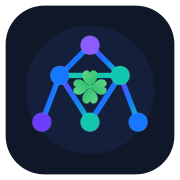
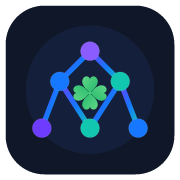
fix(brand): add transparent UI lockups and optically center symbol
Manual visual review rejected the header logo: lotoatlas-logo-horizontal-
reversed.svg and lotoatlas-symbol-on-dark.svg both baked in a full-canvas
`<rect fill="#101729"/>`, producing a visible dark rectangle around the
mark instead of it sitting on the surrounding surface. Add two new,
transparent, tagline-free UI variants (lotoatlas-logo-ui-reversed.svg,
lotoatlas-symbol-ui-on-dark.svg) tightly cropped to their actual rendered
content (measured via headless-browser getBBox), for in-app header/nav use
only — the original institutional assets (with background/tagline) are
kept unchanged for Brandbook/presentation use.

Also corrects an optical-centering defect: the node network's true visible
bounds (y=19..292, including the 27px node radius) sat 9.5px above the
standalone symbol canvas's own center, and 34px above the app-icon's
backdrop-circle center — both produced a visibly larger empty margin below
the mark than above, most noticeable in the WhatsApp/link-preview icon.
Fixed by adjusting only the framing (symbol viewBox y-offset; app-icon
translateY 165->199) — no node or clover coordinate was redrawn. All
app-icon PNGs (Brand Kit source and public/brand) are regenerated from the
corrected SVG via resvg-cli.

Adds a dedicated 1200x630 Open Graph image (corrected symbol, wordmark,
tagline, safe margins) and og:image/twitter:image metadata, so the square
app icon is no longer the only candidate social-preview asset.

diff --git a/index.html b/index.html
@@ -15,6 +15,19 @@
     <link rel="shortcut icon" href="/brand/lotoatlas-favicon.ico" />
     <link rel="apple-touch-icon" sizes="180x180" href="/brand/lotoatlas-app-icon-180.png" />
     <title>LotoAtlas — carteiras e estratégias auditáveis</title>
+    <meta property="og:type" content="website" />
+    <meta property="og:site_name" content="LotoAtlas" />
+    <meta property="og:title" content="LotoAtlas — carteiras e estratégias auditáveis" />
+    <meta
+      property="og:description"
+      content="Organize, analise e confira carteiras de Lotofácil e Mega-Sena com estratégias matemáticas reproduzíveis e auditáveis. Não é previsão de sorteios."
+    />
+    <meta property="og:image" content="https://loterias-bkr.pages.dev/social/lotoatlas-og-image.png" />
+    <meta property="og:image:width" content="1200" />
+    <meta property="og:image:height" content="630" />
+    <meta name="twitter:card" content="summary_large_image" />
+    <meta name="twitter:title" content="LotoAtlas — carteiras e estratégias auditáveis" />
+    <meta name="twitter:image" content="https://loterias-bkr.pages.dev/social/lotoatlas-og-image.png" />
   </head>
   <body class="bg-brand-bg text-brand-text antialiased">
     <div id="root"></div>

diff --git a/docs/global/LotoAtlas_BrandKit_v0.3/generate_assets.py b/docs/global/LotoAtlas_BrandKit_v0.3/generate_assets.py
@@ -72,9 +72,27 @@ def symbol_svg(bg=None, mono=None, width=400, height=330, padding=0):
     edges=[(0,1),(0,2),(1,2),(1,3),(1,4),(2,4),(2,5)]
     lines=''.join(f'<line x1="{coords[a][0]}" y1="{coords[a][1]}" x2="{coords[b][0]}" y2="{coords[b][1]}" stroke="{stroke}" stroke-width="15" stroke-linecap="round"/>' for a,b in edges)
     circles=''.join(f'<circle cx="{x}" cy="{y}" r="27" fill="{nodes[i]}" stroke="{C["white"] if bg==C["ink"] else C["white"]}" stroke-opacity="0.10" stroke-width="2"/>' for i,(x,y) in enumerate(coords))
-    return f'''<svg xmlns="http://www.w3.org/2000/svg" width="{width}" height="{height}" viewBox="0 0 400 330">
+    # v0.3 optical-centering correction: the node network's true visible
+    # bounds (including the 27px node radius) are y=19..292, whose center
+    # (155.5) sits 9.5px above the 400x330 canvas's own center (165). The
+    # viewBox is shifted up by 9.5 (instead of moving any node/clover
+    # coordinate) so the unchanged geometry renders with symmetric top/bottom
+    # margins (28.5/28.5) — a framing fix, not a redraw.
+    return f'''<svg xmlns="http://www.w3.org/2000/svg" width="{width}" height="{height}" viewBox="0 -9.5 400 330">
     {defs()}{bgrect}
     <g>{lines}{circles}{clover(200,165,0.58,clover_fill)}</g>
+    </svg>'''
+
+def ui_symbol_transparent():
+    """Tightly-cropped, transparent symbol for in-app UI use (header, compact
+    nav). No background rect — meant to sit directly on whatever surface
+    token is behind it, never a baked-in dark rectangle."""
+    body = symbol_svg().split('<g>')[1].split('</g>')[0]
+    # True content bbox including node radius: x=36..364, y=19..292 (already
+    # symmetric in x around 200); pad 15px on all sides for breathing room.
+    return f'''<svg xmlns="http://www.w3.org/2000/svg" width="358" height="303" viewBox="21 4 358 303">
+    {defs()}
+    <g>{body}</g>
     </svg>'''
 
 def primary_horizontal(reversed=False):
@@ -90,6 +108,22 @@ def primary_horizontal(reversed=False):
     <text x="390" y="170" font-family="Inter, Arial, sans-serif" font-size="108" font-weight="800" letter-spacing="-4" fill="{ink}">Loto</text>
     <text x="617" y="170" font-family="Inter, Arial, sans-serif" font-size="108" font-weight="800" letter-spacing="-4" fill="url(#atlasGrad2)">Atlas</text>
     <text x="396" y="232" font-family="Inter, Arial, sans-serif" font-size="25" font-weight="600" letter-spacing="8" fill="{tag}">ORGANIZE. ANALISE. CONFIRA.</text>
+    </svg>'''
+
+def ui_horizontal_transparent():
+    """Transparent, tagline-free horizontal lockup for in-app navigation
+    headers. Same symbol+wordmark geometry/position as primary_horizontal
+    (reversed), just without the baked-in dark rect or the tagline line, and
+    cropped tightly to the actual rendered content (measured via headless
+    browser getBBox: symbol x=48.93..312.51 y=27.27..246.65; "Loto"+"Atlas"
+    text x=390..903.94 y=51..203) with a 20px margin."""
+    return f'''<svg xmlns="http://www.w3.org/2000/svg" width="895" height="260" viewBox="29 7 895 260">
+    {defs()}
+    <g transform="translate(20,12) scale(0.98)">
+      <g transform="scale(0.82)">{symbol_svg().split('<g>')[1].split('</g>')[0]}</g>
+    </g>
+    <text x="390" y="170" font-family="Inter, Arial, sans-serif" font-size="108" font-weight="800" letter-spacing="-4" fill="{C['white']}">Loto</text>
+    <text x="617" y="170" font-family="Inter, Arial, sans-serif" font-size="108" font-weight="800" letter-spacing="-4" fill="url(#atlasGrad2)">Atlas</text>
     </svg>'''
 
 def stacked(reversed=False):
@@ -113,11 +147,16 @@ def wordmark(reversed=False):
     </svg>'''
 
 def app_icon():
+    # v0.3 optical-centering correction: with scale(2.0), the symbol's true
+    # content (post-transform y=203..749, center 476) sat 34px above the
+    # backdrop circle's center (510) — a visibly larger empty margin below
+    # the mark than above. translateY 165 -> 199 (+34) recenters the
+    # unchanged symbol geometry inside the circle (92px margin top/bottom).
     return f'''<svg xmlns="http://www.w3.org/2000/svg" width="1024" height="1024" viewBox="0 0 1024 1024">
     {defs()}
     <rect x="32" y="32" width="960" height="960" rx="220" fill="{C['ink']}"/>
     <circle cx="512" cy="510" r="365" fill="#14203B"/>
-    <g transform="translate(112,165) scale(2.0)">
+    <g transform="translate(112,199) scale(2.0)">
       {symbol_svg().split('<g>')[1].split('</g>')[0]}
     </g>
     </svg>'''
